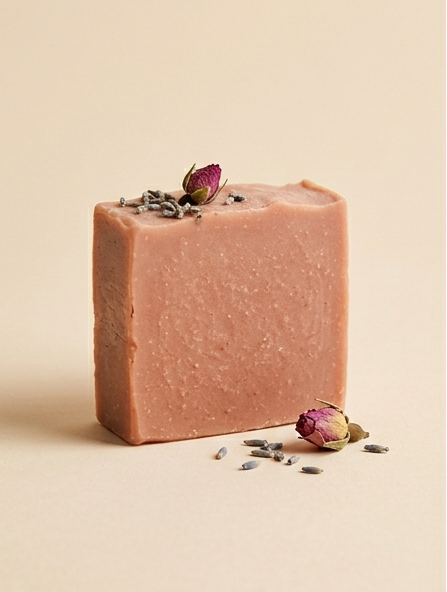
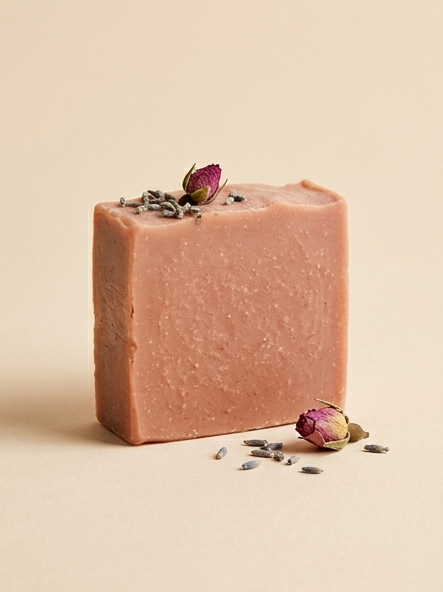
atualizado css e html

diff --git a/lumiere-atelie/estilos/style.css b/lumiere-atelie/estilos/style.css
@@ -21,8 +21,10 @@ header {
     background: transparent;
 }
 
+
 header.scrolled {
     background: #F0E8DF;
+    
 }
 
 header > .desconto {
@@ -68,35 +70,177 @@ header > .menu > nav > ul > li > a:hover {
 
 }
 
-main {
-    padding-top: 0;
-    flex: 1;
-    margin-top: 0;
-}
-
-main > .hero {
+.hero {
     display: flex;
+    flex-direction: column;
+    background-image: url("../imagens/hero-banner.png");
+    background-position: top center;
+    background-size: cover;
+    min-height: 600px;
+    padding-top: 120px;
+    padding-bottom: 60px;
+    justify-content: flex-start;
+}
+
+.hero > div {
+    display: flex;
+    flex-direction: column;
     align-items: center;
-    height: 100vh;
-    overflow: hidden;
+    justify-content: left;
+    gap: 20px;
+    max-width: 800px;
+    margin-top: 50px;
+}
+
+.hero > div > p {
+    font-family: 'Cormorant Garamond', serif;
+    color: #4A2E1A;
+    font-size: 28px;
+    margin: auto 0 auto 60px;
+    max-width: 500px;
+}
+
+.hero > div > a {
+    display: inline-block;
+    background-color: #4A2E1A;
+    text-decoration: none;
+    color: #F0E8DF; 
+    font-weight: bold;
+    padding: 12px 24px;
+    border-radius: 16px;
+    transition: background-color 0.4s, color 0.4s ease;
+}
+
+.hero > a:hover {
+    background-color: #C4946E;
+    color: #0D0D0D;   
+}
+
+.apresentacao {
+    display: flex;
+    flex-direction: column;
+    align-items: center;
+    padding: 60px 20px;
+    gap: 40px;
+}
+
+.apresentacao > h2 {
+    font-family: 'Cormorant Garamond', serif;
+    font-size: 32px;
+    color: #4A2E1A;
+}
+
+.apresentacao > p {
+    font-size: 20px;
+    text-align: center;
+    max-width: 850px;
+    line-height: 1.5;
+}
+
+
+.destaques-colecao {
+    display: flex;
+    flex-direction: column;
+    align-items: center;
+    background-color: #9C6B45;
+    padding: 60px 20px;
+    gap: 40px;
+}
+
+.destaques-colecao > h3 {
+    font-family: 'Cormorant Garamond', serif;
+    font-size: 32px;
+    color: #F0E8DF;
+    margin-bottom: 20px;
+}
+
+.destaques-colecao > a {
     background-color: #F0E8DF;
-    background-image: none;
+    color: #4A2E1A;
+    text-decoration: none;
+    font-weight: bold;
+    padding: 14px 26px;
+    border-radius: 18px;
+    transition: background-color 0.4s, color 0.4s ease;
 }
 
-.hero-texto {
-    padding: 40px; 
-    flex: 0 0 40%;
+.destaques-colecao > a:hover {
+    background-color: #4A2E1A;
+    color: #F0E8DF;
+
 }
 
-.hero-img {
-    display: block;
-    height: 100%;
-    width: 60%;
+.destaques {
+    display: flex;
+    flex-wrap: wrap;
+    gap: 30px;
+    justify-content: center;
+    text-align: center;
+}
+
+.destaques > div {
+    background-color: #F0E8DF;
+    padding-bottom: 22px;
+}
+
+.destaques > div > img {
+    width: 100%;
+    height: 340px;
     object-fit: cover;
-    object-position: 70% center;
-    flex-shrink: 0;
+    margin-bottom: 12px;
 }
-    
+
+.destaques > div > h4 {
+    font-family: 'Cormorant Garamond', serif;
+    color: #4A2E1A;
+    font-size: 22px;
+    margin-bottom: 8px;
+}
+
+.destaques > div > p {
+    font-size: 15px;
+    padding: 0 10px;
+    margin-bottom: 8px;
+}
+
+.destaques > div > p.preco-destaques {
+    font-family: 'Cormorant Garamond', serif;
+    font-size: 22px;
+    font-weight: bold;
+    color: #4A2E1A;
+}
+
+.storytelling {
+    display: flex;
+    flex-direction: column;
+    align-items: center;
+    padding: 60px 0 60px 0;
+    gap: 40px;
+}
+
+.storytelling > div > h3 {
+    font-family: 'Cormorant Garamond', serif;
+    font-size: 32px;
+    color: #4A2E1A;
+}
+
+.storytelling > div > p {
+    font-size: 18px;
+    max-width: 600px;
+    line-height: 1.5;
+    margin-bottom: 20px;
+}
+
+.storytelling > div > img {
+    width: 100%;
+    height: 100%;
+    object-fit: cover;
+    object-position: 0% 30%;
+    overflow: hidden;
+}
+
+
+
 
 
 

diff --git a/lumiere-atelie/index.html b/lumiere-atelie/index.html
@@ -33,11 +33,10 @@
 
     <main>
         <section class="hero">
-            <div class="hero-texto">
-                <p>Ganhe uma mini vela com o aroma da sua escolha e um frasco com fósforos em compras acima de <strong>R$ 300,00</strong></p>
-                <a href="loja.html" class="btn-hero">Explorar a coleção</a>
-            </div>
-            <img src="imagens/hero-banner.png" alt="Vela e fósforos Lumière" class="hero-img">
+                <div>
+                    <p>Ganhe uma mini vela com o aroma da sua escolha e um frasco com fósforos em compras acima de <strong>R$ 300,00</strong></p>
+                    <a href="loja.html" class="btn-hero">Explorar a coleção</a>
+                </div>
         </section>
 
         <section class="apresentacao">
@@ -46,35 +45,35 @@
         </section>
 
         <section class="destaques-colecao">
-            <div class="destaques">
-                <h3>Destaques da Coleção</h3>
+            <h3>Destaques da Coleção</h3>
 
-                <div class="destaque-vela">
+            <div class="destaques">
+                <div>
                     <img src="imagens/nuit-de-figuier.png" alt="Vela artesanal Nuit de Figuier" title="Vela artesanal Nuit de Figuier">
                     <h4>Nuit de Figuier</h4>
                     <p>Vela de Soja · 200g</p>
                     <p>Figo maduro, madeira de cedro, almíscar branco</p>
-                    <p>R$ 89,00</p>
+                    <p class="preco-destaques">R$ 89,00</p>
                 </div>
 
-                <div class="destaque-sabonete">
+                <div>
                     <img src="imagens/argila-rosada.png" alt="Sabonete artesanal Mousse de Argila Rosada" title="Sabonete artesanal Mousse de Argila Rosada">
                     <h4>Mousse de Argila Rosada</h4>
                     <p>Sabonete artesanal · 110g</p>
                     <p>Argila rosada, óleo de rosa mosqueta, lavanda</p>
-                    <p>R$ 34,00</p>
+                    <p class="preco-destaques">R$ 34,00</p>
                 </div>
                     
-                <div class="destaque-kit">
+                <div>
                     <img src="imagens/kit-ritual-da-manha.png" alt="Kit Ritual da Manhã" title="Kit Ritual da Manhã presenteável com vela pequena e sabonete">
                     <h4>Kit Ritual da Manhã</h4>
                     <p>Kit Presenteável</p>
                     <p>Vela pequena + sabonete artesanais</p>
-                    <p>R$ 98,00</p>
+                    <p class="preco-destaques">R$ 98,00</p>
                 </div>
 
-                <a href="loja.html">Ver toda a loja</a>
             </div> 
+            <a href="loja.html">Ver toda a loja</a>
         </section>
 
         <section class="storytelling">